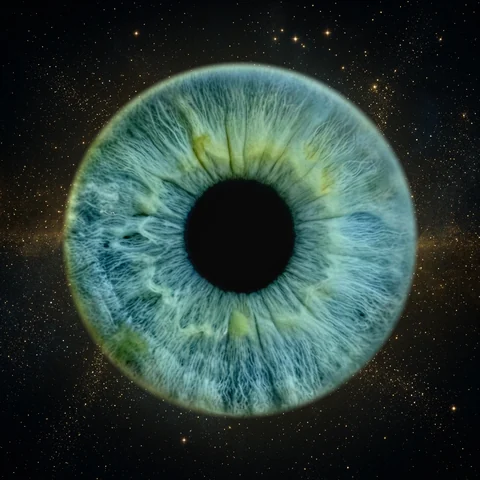
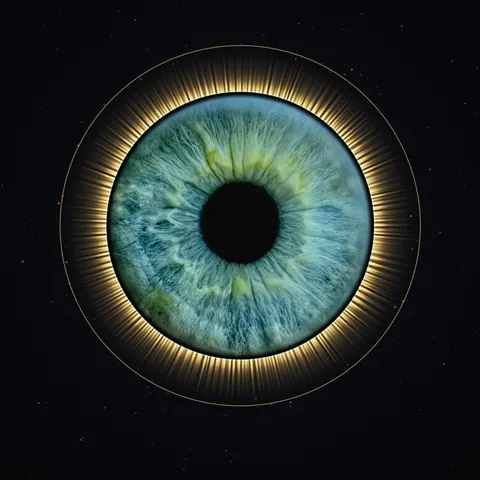
feat(landing): the ten shown styles have tile images, the gallery lists the live one-eye styles and prints a price only where the catalogue allows (WP18)
public/assets/atelier/style-<slug>-480.webp and -800.webp for Clean Iris, Powder Burst, Universe, Splash, Celestial Gold, Radiance, Kiss Collision,
Collision Infinity, Clean Infinity and Family Colours (655 KiB, build check item 8), made by scripts/make_style_tiles.py: the engine of this
repository, clean, from the owner own eye and two photos he confirmed the right to publish (--eyes names the folder, never in the repository;
deterministic; no key; no model). The slug celestial-gold is shared with the legacy id, so that file now shows the new Celestial Gold. The landing
description dictionaries are keyed by the ten shown ids in four languages (the landing translation pack), the gallery prints a price beside a style
only when the run-time catalogue says it can be bought now, the admin pipeline lab and the dev flow script offer the one-eye styles a customer can see
instead of the retired legacy ids, two comments say what is true. Soon styles stay off the landing (spec 1.8 rule 1).

diff --git a/src/landing/copy.ts b/src/landing/copy.ts
@@ -213,12 +213,16 @@ const en: Copy = {
       "Every image below is the founder's eye from the before and after above, rendered by our engine in each style. Your preview adds a watermark, which is left out here.",
     oneEye: 'One eye',
     desc: {
-      studio_black: 'Your iris alone, on pure black.',
-      celestial_gold: 'A band of golden stardust.',
-      deep_nebula: 'A star field in indigo and violet.',
-      emerald_aurora: 'Green stardust with a touch of rose.',
-      obsidian_smoke: 'Silver stars on deep black.',
-      supernova: 'Stardust in red and orange.',
+      'solo.powder': "The rim breaks into grains in your eye's own colours.",
+      'solo.universe': 'Your own iris, enlarged, fills the whole canvas.',
+      'solo.splash': 'The rim lifts into a crown of water.',
+      'solo.gold': 'A fine gold ring and a halo around the iris.',
+      'solo.radiance': 'Fine rays of light in the colours of your own iris.',
+      'solo.clean': 'Your restored iris alone on pure black.',
+      'duo.kiss_collision': 'Two irises that touch at the edge.',
+      'duo.collision_infinity': 'Two irises overlap like an infinity sign.',
+      'duo.clean': 'The same pair, without powder.',
+      'grp.collision': 'Three irises in a triangle.',
     },
     alt: (name) => `The founder's iris in the ${name} style`,
   },
@@ -411,12 +415,16 @@ const de: Copy = {
       'Jedes Bild hier zeigt das Auge des Gründers aus dem Vorher/Nachher oben, von unserer Software in jedem Stil gerendert. Ihre Vorschau trägt ein Wasserzeichen; hier ist es weggelassen.',
     oneEye: 'Ein Auge',
     desc: {
-      studio_black: 'Nur Ihre Iris, auf reinem Schwarz.',
-      celestial_gold: 'Ein Band aus goldenem Sternenstaub.',
-      deep_nebula: 'Ein Sternenfeld in Indigo und Violett.',
-      emerald_aurora: 'Grüner Sternenstaub mit einem Hauch Rosé.',
-      obsidian_smoke: 'Silberne Sterne auf tiefem Schwarz.',
-      supernova: 'Sternenstaub in Rot und Orange.',
+      'solo.powder': 'Der Rand löst sich in Körner in den Farben Ihres Auges auf.',
+      'solo.universe': 'Ihre eigene Iris, vergrößert, füllt die ganze Fläche.',
+      'solo.splash': 'Der Rand hebt sich zu einer Krone aus Wasser.',
+      'solo.gold': 'Ein feiner Goldring und ein Lichthof um die Iris.',
+      'solo.radiance': 'Feine Lichtstrahlen in den Farben Ihrer eigenen Iris.',
+      'solo.clean': 'Ihre restaurierte Iris allein auf reinem Schwarz.',
+      'duo.kiss_collision': 'Zwei Iriden, die sich am Rand berühren.',
+      'duo.collision_infinity': 'Zwei Iriden überlappen wie ein Unendlichkeitszeichen.',
+      'duo.clean': 'Dasselbe Paar, ohne Pulver.',
+      'grp.collision': 'Drei Iriden im Dreieck.',
     },
     alt: (name) => `Die Iris des Gründers im Stil ${name}`,
   },

diff --git a/src/landing/StyleGallery.tsx b/src/landing/StyleGallery.tsx
@@ -3,12 +3,13 @@ import { STYLES, styleSrc, styleSrcSet } from './config';
 import { currencyOf, money, priceMinor } from '../shared/markets';
 import { useMarket } from '../shared/useMarket';
 import { usePrices, usePricesReady } from '../shared/usePrices';
-import { useOrderingOpen } from './ordering';
+import { useCatalogue, useOrderingOpen } from './ordering';
 import { SectionHead } from './ui';
 
 export function StyleGallery() {
   const { t, lang } = useLang();
   const open = useOrderingOpen();
+  const cat = useCatalogue();                // the styles that can be ordered NOW (the server's effective stages; the build's own reading until it answers)
   const market = useMarket();
   const prices = usePrices(market);          // the visitor's own ladder while a price experiment runs for them
   const pending = !usePricesReady();         // the server's first answer is waited for (a moment) before a price is printed
@@ -25,6 +26,7 @@ export function StyleGallery() {
         <ul className="mt-12 grid grid-cols-2 gap-x-3 gap-y-8 sm:gap-x-5 md:grid-cols-3 md:gap-y-12">
           {STYLES.map((st) => {
             const cents = priceMinor(1, st.id, market, prices);
+            const orderable = cat.one.includes(st.id);      // a price is printed beside a style that can be bought now, never beside one that cannot yet (spec 1.8 rule 2)
             return (
               <li key={st.id}>
                 <figure>
@@ -45,7 +47,13 @@ export function StyleGallery() {
                     <div className="flex flex-wrap items-baseline justify-between gap-x-3 gap-y-1">
                       <h3 className="font-luxury text-[15px] font-semibold tracking-[0.04em] text-white sm:text-base">{st.name}</h3>
                       <span className="text-xs text-zinc-400">
-                        {s.oneEye} · <span className={`text-zinc-300 ${pending ? 'opacity-0' : ''}`} aria-hidden={pending || undefined}>{money(cents, currencyOf(market), lang)}</span>
+                        {s.oneEye}
+                        {orderable && (
+                          <>
+                            {' · '}
+                            <span className={`text-zinc-300 ${pending ? 'opacity-0' : ''}`} aria-hidden={pending || undefined}>{money(cents, currencyOf(market), lang)}</span>
+                          </>
+                        )}
                       </span>
                     </div>
                     <p className="mt-1.5 text-[13px] leading-relaxed text-zinc-400 sm:text-sm">{s.desc[st.id]}</p>

diff --git a/src/landing/copy.lt.ts b/src/landing/copy.lt.ts
@@ -84,12 +84,16 @@ export const lt: Copy = {
       'Kiekvienas toliau esantis vaizdas yra įkūrėjo akis iš aukščiau pateikto palyginimo prieš ir po, mūsų programos sukurta kiekvienu stiliumi. Jūsų peržiūroje bus vandens ženklas; čia jo nėra.',
     oneEye: 'Viena akis',
     desc: {
-      studio_black: 'Tik Jūsų rainelė, grynai juodame fone.',
-      celestial_gold: 'Auksinių žvaigždžių dulkių juosta.',
-      deep_nebula: 'Žvaigždėtas laukas indigo ir violetiniais tonais.',
-      emerald_aurora: 'Žalios žvaigždžių dulkės su rožiniu atspalviu.',
-      obsidian_smoke: 'Sidabrinės žvaigždės sodriai juodame fone.',
-      supernova: 'Žvaigždžių dulkės raudonais ir oranžiniais tonais.',
+      'solo.powder': 'Kraštas skyla į grūdelius Jūsų akies spalvomis.',
+      'solo.universe': 'Padidinta Jūsų rainelė užpildo visą kūrinio plotą.',
+      'solo.splash': 'Kraštas iškyla kaip vandens karūna.',
+      'solo.gold': 'Plonas auksinis žiedas ir šviesos aureolė aplink rainelę.',
+      'solo.radiance': 'Ploni šviesos spinduliai Jūsų rainelės spalvomis.',
+      'solo.clean': 'Tik Jūsų atkurta rainelė grynai juodame fone.',
+      'duo.kiss_collision': 'Dvi rainelės, besiliečiančios kraštais.',
+      'duo.collision_infinity': 'Dvi rainelės persidengia kaip begalybės ženklas.',
+      'duo.clean': 'Ta pati pora be miltelių.',
+      'grp.collision': 'Trys rainelės trikampyje.',
     },
     alt: (name) => `Įkūrėjo rainelė ${name} stiliumi`,
   },

diff --git a/src/admin/Lab.tsx b/src/admin/Lab.tsx
@@ -12,13 +12,15 @@ import type { Call } from './AdminApp';
 import { DEFAULT_PRICES, explain, fmtSec, fmtUsd, STYLE_LT } from './format';
 import { BTN, CARD, ConfirmDialog, DANGER, ExtLink, GOLD, H2, INPUT, JsonView, MUTED, Notice, Spinner, Thumb, Toast } from './ui';
 import type { ConfirmSpec, Tone } from './ui';
-import { DEFAULT_STYLE, LEGACY_IDS } from '../shared/styles';
+import { DEFAULT_STYLE, STYLE_IDS, STYLES as REGISTRY, ceilingStage } from '../shared/styles';
 import { StyleLab } from './StyleLab';
 import { GroupLab } from './GroupLab';
 import { LabSteps } from './LabSteps';
 
 const SAMPLE = '/assets/sample_eye_blue_1789706902835.jpg';
-const STYLES = LEGACY_IDS;   // the styles the legacy pipeline above draws (api/_lib/styles_registry.py); the v3 engine's styles are looked at in StyleLab below, without the image model
+// The styles the pipeline above draws: the one-eye styles of the v3 engine a customer can see (a preview or live ceiling: api/_lib/styles_registry.py), because the pipeline calls the public
+// /api/compose, which refuses the six legacy ids since the cutover (retired). The styles the pipeline cannot reach (held, planned) are looked at in StyleLab below, without the image model.
+const STYLES = STYLE_IDS.filter((id) => REGISTRY[id].legacy === 0 && REGISTRY[id].eyes[0] <= 1 && ['preview', 'live'].includes(ceilingStage(id, 1) ?? ''));
 
 type J = Record<string, unknown>;
 type Status = 'wait' | 'run' | 'ok' | 'fail' | 'skip';

diff --git a/src/landing/copy.hu.ts b/src/landing/copy.hu.ts
@@ -88,12 +88,16 @@ export const hu: Copy = {
       'Minden kép az alapító szemét mutatja a fenti előtte-utána képről, a motorunkkal az adott stílusban elkészítve. Az előnézeteden vízjel is van; itt azt elhagytuk.',
     oneEye: 'Egy szem',
     desc: {
-      studio_black: 'Csak az íriszed, tiszta feketén.',
-      celestial_gold: 'Aranyló csillagpor sávja.',
-      deep_nebula: 'Csillagmező indigóban és ibolyában.',
-      emerald_aurora: 'Zöld csillagpor egy leheletnyi rózsaszínnel.',
-      obsidian_smoke: 'Ezüst csillagok mélyfekete háttéren.',
-      supernova: 'Csillagpor vörösben és narancsban.',
+      'solo.powder': 'A perem szemcsékre bomlik, a szemed saját színeiben.',
+      'solo.universe': 'A saját íriszed felnagyítva tölti ki az egész képet.',
+      'solo.splash': 'A perem vízkoronává emelkedik.',
+      'solo.gold': 'Finom aranygyűrű és fénykoszorú az írisz körül.',
+      'solo.radiance': 'Finom fénysugarak a saját íriszed színeiben.',
+      'solo.clean': 'A helyreállított íriszed egyedül, tiszta fekete háttéren.',
+      'duo.kiss_collision': 'Két írisz, amelyek a peremükön érintik egymást.',
+      'duo.collision_infinity': 'Két írisz átfedi egymást, mint egy végtelenjel.',
+      'duo.clean': 'Ugyanaz a pár, por nélkül.',
+      'grp.collision': 'Három írisz háromszögben.',
     },
     alt: (name) => `Az alapító írisze ${name} stílusban`,
   },

diff --git a/src/landing/BeforeAfter.tsx b/src/landing/BeforeAfter.tsx
@@ -4,7 +4,8 @@ import { BEFORE_SRC, styleSrc, styleSrcSet } from './config';
 import { SectionHead } from './ui';
 
 // Real before and after: the founder's 315 px phone crop against the same eye rendered in the Clean Iris look (the picture is the bare iris on black, the
-// look the landing's copy names; its file is still the legacy render's, style-studio-black-*, until the cutover brings the Clean Iris images).
+// look the landing's copy names; its file is still the legacy render's, style-studio-black-*, because only that bare print fills the frame as the phone crop does:
+// the split lines up with it and would not with the Clean Iris tile, whose iris is smaller; the landing team's Reveal (WP14) replaces this component).
 // Both images keep the iris at almost the same size (about 90 % of the frame), so the split lines up.
 function CompareSlider() {
   const { t } = useLang();

diff --git a/src/landing/config.ts b/src/landing/config.ts
@@ -73,8 +73,9 @@ export const DELIVERY_MAX_HOURS = 48;
 
 
 // The styles of the capture tool, in the order the page shows them (the registry's tile_order: api/_lib/styles_registry.py, read
-// through src/shared/styles.ts). Every image under /assets/atelier/ is the founder's own eye rendered by the engine
-// (api/_lib/iris.py compose), not a mockup.
+// through src/shared/styles.ts): the one-eye styles of the v3 engine whose ceiling is live (src/shared/styles.ts landingStyles). Every one-eye image
+// under /assets/atelier/ is the founder's own eye rendered by the engine of this repository (scripts/make_style_tiles.py), not a mockup; the pair and
+// Trio tiles add two photos the owner confirmed the right to publish and are not shown by this gallery.
 export const STYLES = landingStyles();
 export type StyleId = string;
 

diff --git a/scripts/make_style_tiles.py b/scripts/make_style_tiles.py
@@ -1,0 +1,130 @@
+# -*- coding: utf-8 -*-
+"""Makes the tile images of the styles shown to customers: public/assets/atelier/style-<slug>-480.webp and -800.webp, one pair of files per style
+at stage preview or live (api/_lib/styles_registry.py; scripts/check_styles.mjs item 8 refuses the build when one is missing).
+
+    python scripts/make_style_tiles.py --eyes <folder> [--out public/assets/atelier] [--only slug ...] [--list]
+
+Every picture is made by the engine of this repository (api/_lib/styles, the same code the free preview and the paid file run), clean (no watermark: the
+page labels an example as an example), from the restored irises of the owner's own eye and of two photos he has confirmed the right to publish on the
+page (the eye files are NOT in the repository and never enter it: --eyes names the folder that holds them). Nothing here calls an image model or reads a key.
+
+The eyes (file names in <folder>): own215120_2_enhanced.jpg (the owner's own eye), drv_w03_2_enhanced.jpg (brown) and drv_w04_2_enhanced.jpg (yellow green).
+  one eye          the owner's own eye
+  Kiss Collision   own eye and the brown one
+  Infinity pairs   own eye and the yellow green one (the high contrast pair that shows the smooth seam)
+  Family Colours   all three, the Trio
+The size of a picture is the long side of the family's default canvas at 1024 px (a preview), reduced with LANCZOS to 800 and 480 px; WEBP quality 80 and 78.
+The same command run again on the same code and the same eyes gives the same files (the seed comes from the eye ids, which are hashes of the files).
+
+Rules that hold for the files this makes: they carry no text but the customer's own words (none are given), no hearts, and one picture per style.
+"""
+from __future__ import annotations
+
+import argparse
+import hashlib
+import io
+import os
+import sys
+
+HERE = os.path.dirname(os.path.abspath(__file__))
+REPO = os.path.dirname(HERE)
+sys.path.insert(0, os.path.join(REPO, "api"))
+sys.dont_write_bytecode = True
+
+EYES = {"own": "own215120_2_enhanced.jpg", "brown": "drv_w03_2_enhanced.jpg", "yellow": "drv_w04_2_enhanced.jpg"}
+# tile slug -> the eyes it is shown on, in the order of the canvas (keyed by slug, the file name part of the tile images: the registry holds the ids)
+SETS = {
+    "clean-iris": ("own",),
+    "powder-burst": ("own",),
+    "universe": ("own",),
+    "splash": ("own",),
+    "celestial-gold": ("own",),
+    "radiance": ("own",),
+    "kiss-collision": ("own", "brown"),
+    "collision-infinity": ("own", "yellow"),
+    "clean-infinity": ("own", "yellow"),
+    "family-colours": ("own", "yellow", "brown"),
+}
+WIDTHS = ((800, 80), (480, 78))
+SIDE = 1024
+NO_KEYS = ("GEMINI_API_KEY", "GOOGLE_API_KEY", "GEMINI_KEY")
+
+
+def shown_styles():
+    """The ids at preview or live for some eye count, in registry order: the styles that need tile images (a legacy id of the same slug shares the file)."""
+    from _lib import catalogue as C
+    out = []
+    for i, d in C.STYLES.items():
+        if any(C.ceiling(i, n) in ("preview", "live") for n in range(d["eyes"][0], d["eyes"][1] + 1)):
+            out.append(i)
+    return out
+
+
+def load_eyes(folder):
+    raws = {}
+    for key, name in EYES.items():
+        p = os.path.join(folder, name)
+        if not os.path.isfile(p):
+            sys.exit(f"make_style_tiles: {p} is missing: --eyes names the folder with {', '.join(EYES.values())}")
+        with open(p, "rb") as f:
+            raws[key] = f.read()
+    return raws
+
+
+def make_one(style_id, raws, ST, C, SCORE):
+    keys = SETS[C.slug_of(style_id)]
+    n = len(keys)
+    eyes = []
+    for k in keys:
+        raw = raws[k]
+        eyes.append(SCORE.Iris(raw, f"tile_{k}", max_side=min(2048, C.work_side(style_id, n) or 2048), eye_id=hashlib.sha256(raw).hexdigest()[:16]))
+    layout = C.default_layout(style_id, n)
+    spec = {"style": style_id, "layout": layout, "eyes": n, "canvas": None, "names": [], "date": "", "family_name": "", "opts": {},
+            "eye_ids": [e.eye_id for e in eyes], "profiles": [None] * n, "lang": "en"}
+    pv = ST.preview(eyes, spec, size=SIDE, watermark=False)
+    return pv.img.convert("RGB"), pv
+
+
+def main(argv=None):
+    ap = argparse.ArgumentParser(description=__doc__.split("\n\n")[0])
+    ap.add_argument("--eyes", help="the folder that holds the restored eyes (never in the repository)")
+    ap.add_argument("--out", default=os.path.join(REPO, "public", "assets", "atelier"))
+    ap.add_argument("--only", nargs="*", help="slugs to make (default: every style shown to customers)")
+    ap.add_argument("--list", action="store_true", help="print the styles that need tile images and stop")
+    a = ap.parse_args(argv)
+    for k in NO_KEYS:
+        os.environ.pop(k, None)
+    from _lib import catalogue as C
+    shown = shown_styles()
+    if a.list:
+        for i in shown:
+            print(i, C.slug_of(i), "->", "+".join(SETS.get(C.slug_of(i), ("?",))))
+        return 0
+    missing = [C.slug_of(i) for i in shown if C.slug_of(i) not in SETS]
+    if missing:
+        sys.exit(f"make_style_tiles: no eye set for {', '.join(missing)}: add the slug to SETS")
+    if not a.eyes:
+        sys.exit("make_style_tiles: --eyes <folder> is required")
+    from PIL import Image
+    from _lib import styles as ST
+    from _lib.styles import core as SCORE
+    raws = load_eyes(a.eyes)
+    os.makedirs(a.out, exist_ok=True)
+    for i in shown:
+        slug = C.slug_of(i)
+        if a.only and slug not in a.only:
+            continue
+        img, pv = make_one(i, raws, ST, C, SCORE)
+        for w, q in WIDTHS:
+            im = img if img.size[0] == w else img.resize((w, round(img.size[1] * w / img.size[0])), Image.LANCZOS)
+            buf = io.BytesIO()
+            im.save(buf, "WEBP", quality=q, method=6)
+            path = os.path.join(a.out, f"style-{slug}-{w}.webp")
+            with open(path, "wb") as f:
+                f.write(buf.getvalue())
+            print(f"{i:24s} {os.path.basename(path):40s} {im.size[0]}x{im.size[1]} {len(buf.getvalue()):7d} bytes  design {pv.design}  seed {pv.seed}")
+    return 0
+
+
+if __name__ == "__main__":
+    sys.exit(main())

diff --git a/scripts/test_flow.py b/scripts/test_flow.py
@@ -6,7 +6,8 @@ import requests
 from PIL import Image, ImageOps
 sys.path.insert(0, os.path.join(os.path.dirname(os.path.abspath(__file__)), "..", "api"))
 from _lib import catalogue     # the style ids come from api/_lib/styles_registry.py
-STYLE_A, STYLE_B = catalogue.legacy_ids()[:2]
+# the first two one-eye styles a customer can preview (the six legacy ids are retired since the cutover and the public compose refuses them)
+STYLE_A, STYLE_B = [i for i in catalogue.ids() if not catalogue.is_legacy(i) and catalogue.previewable(i, 1)][:2]
 
 args = [a for a in sys.argv[1:] if not a.startswith("--")]
 photo = args[0]; base = args[1] if len(args) > 1 else "http://localhost:5050"
